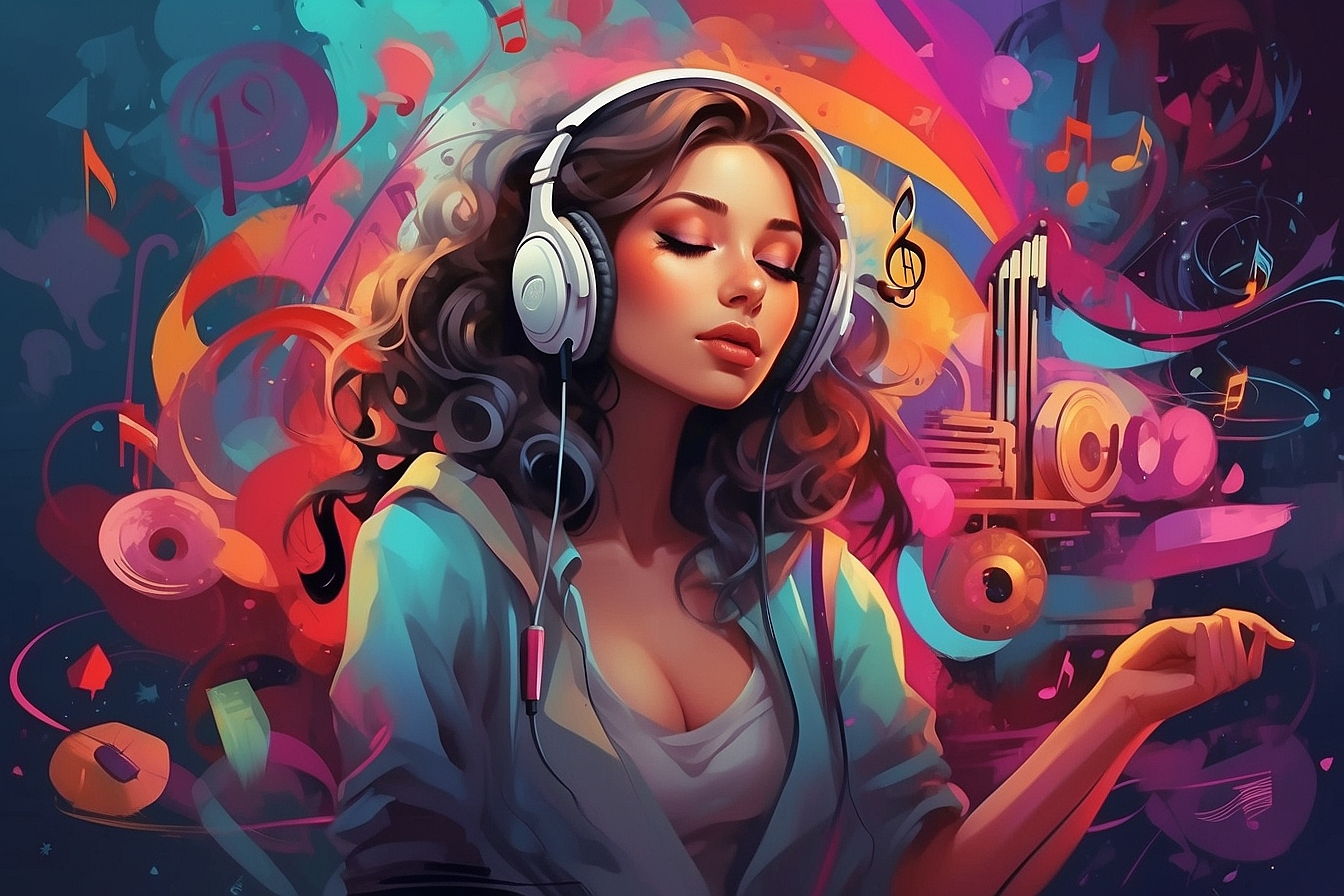
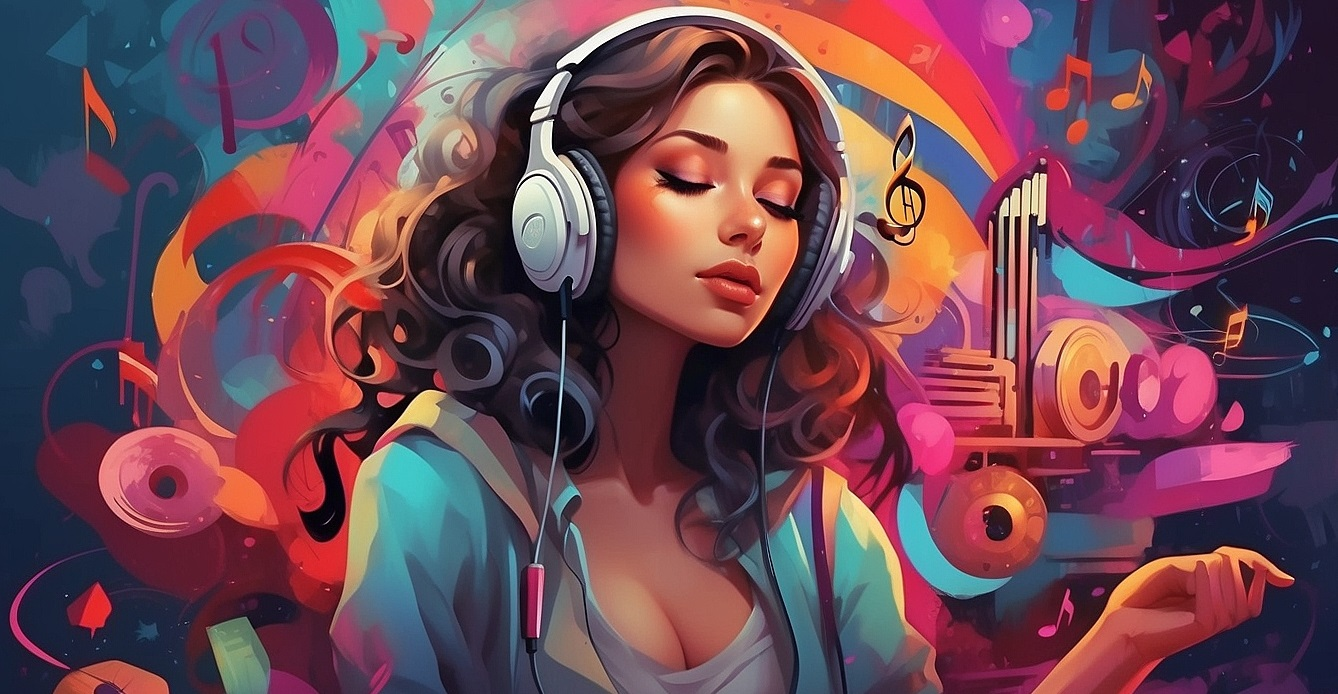
melhorando as imagens

diff --git a/index.html b/index.html
@@ -8,7 +8,7 @@
 
 </head>
 <body>
-    <img src="musica.jpg" alt="Ilustração de música">
+    <img id="banner" src="musica.jpg" alt="Ilustração de música">
 
     <h1>Escola de Música Harmonia Sonora</h1>
 

diff --git a/style.css b/style.css
@@ -2,6 +2,10 @@ body {
     background: #CCCCCC;
 }
 
+#banner {
+    width: 100%;
+}
+
 h1 {
     text-align: center;
 }
